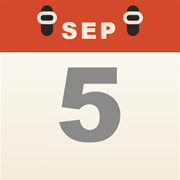
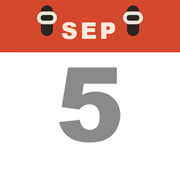
chore: 精简 PWA 图标资源并统一配色
- 移除冗余的 PNG 图标与独立 favicon，统一使用 SVG 图标
- 更新图标引用与缓存版本，同步调整主题色为白色
- 清理首屏主题色同步脚本及相关逻辑

diff --git a/index.html b/index.html
@@ -6,26 +6,14 @@
     <meta name="mobile-web-app-capable" content="yes">
     <meta name="apple-mobile-web-app-capable" content="yes">
     <meta name="description" content="日历 - 离线可用的渐进式网页应用">
-    <meta name="theme-color" id="theme-color-meta" content="#f5f5f5">
     <title>日历</title>
-
-    <!-- 首屏前同步浏览器 UI 配色：安装成 PWA 后标题栏/任务栏随主题变色 -->
-    <script>
-        (() => {
-            const mode = localStorage.getItem('themeMode') || 'auto';
-            const dark = mode === 'auto' ? matchMedia('(prefers-color-scheme: dark)').matches : mode === 'dark';
-            document.getElementById('theme-color-meta').content = dark ? '#000000' : '#f5f5f5';
-        })();
-    </script>
     
     <!-- PWA manifest -->
     <link rel="manifest" href="manifest.json">
     
-    <!-- Favicon：透明底，深浅色标签栏自动适配 -->
-    <link rel="icon" type="image/svg+xml" href="favicon.svg?v=2">
-    
-    <!-- 主屏/桌面安装图标：必须用不透明 PNG，透明区会被启动器填成黑色 -->
-    <link rel="apple-touch-icon" href="icons/icon-180x180.png?v=1">
+    <!-- 图标：一张透明 SVG（标签页 + manifest 共用）+ 一张纯白 PNG（iOS 主屏） -->
+    <link rel="icon" type="image/svg+xml" href="icons/icon-512x512.svg?v=4">
+    <link rel="apple-touch-icon" sizes="180x180" href="icons/icon-180x180.png?v=2">
     
     <!-- CSS -->
     <link rel="stylesheet" href="css/styles.css?v=1.3">

diff --git a/sw.js b/sw.js
@@ -3,7 +3,7 @@
  * 日历 Service Worker
  */
 
-const CACHE_NAME = 'chinese-calendar-v1.7.6';  // ← Change this when you update JS/CSS
+const CACHE_NAME = 'chinese-calendar-v1.7.9';  // ← Change this when you update JS/CSS
 const RUNTIME_CACHE = 'chinese-calendar-runtime';
 
 // 需要缓存的静态资源（使用相对路径）
@@ -12,16 +12,13 @@ const STATIC_ASSETS = [
     './',
     './index.html',
     './manifest.json',
-    './favicon.svg',
     './css/styles.css',
     './js/app.js',
     './js/calendar.js',
     './js/lunar.js',
     './js/holiday.js',
     './icons/icon-512x512.svg',
-    './icons/icon-180x180.png',
-    './icons/icon-192x192.png',
-    './icons/icon-512x512.png'
+    './icons/icon-180x180.png'
 ];
 
 // 静态资源的 pathname（相对 sw.js 所在目录解析，天然兼容根目录与子目录部署）

diff --git a/js/app.js b/js/app.js
@@ -82,8 +82,6 @@ class CalendarApp {
         const applyTheme = (mode) => {
             const isDark = mode === 'auto' ? prefersDark.matches : mode === 'dark';
             document.body.classList.toggle('dark', isDark);
-            // 同步浏览器 UI 配色（安装成 PWA 后即为标题栏/任务栏颜色）
-            document.getElementById('theme-color-meta').content = isDark ? '#000000' : '#f5f5f5';
         };
 
         let currentMode = localStorage.getItem('themeMode') || 'auto';
